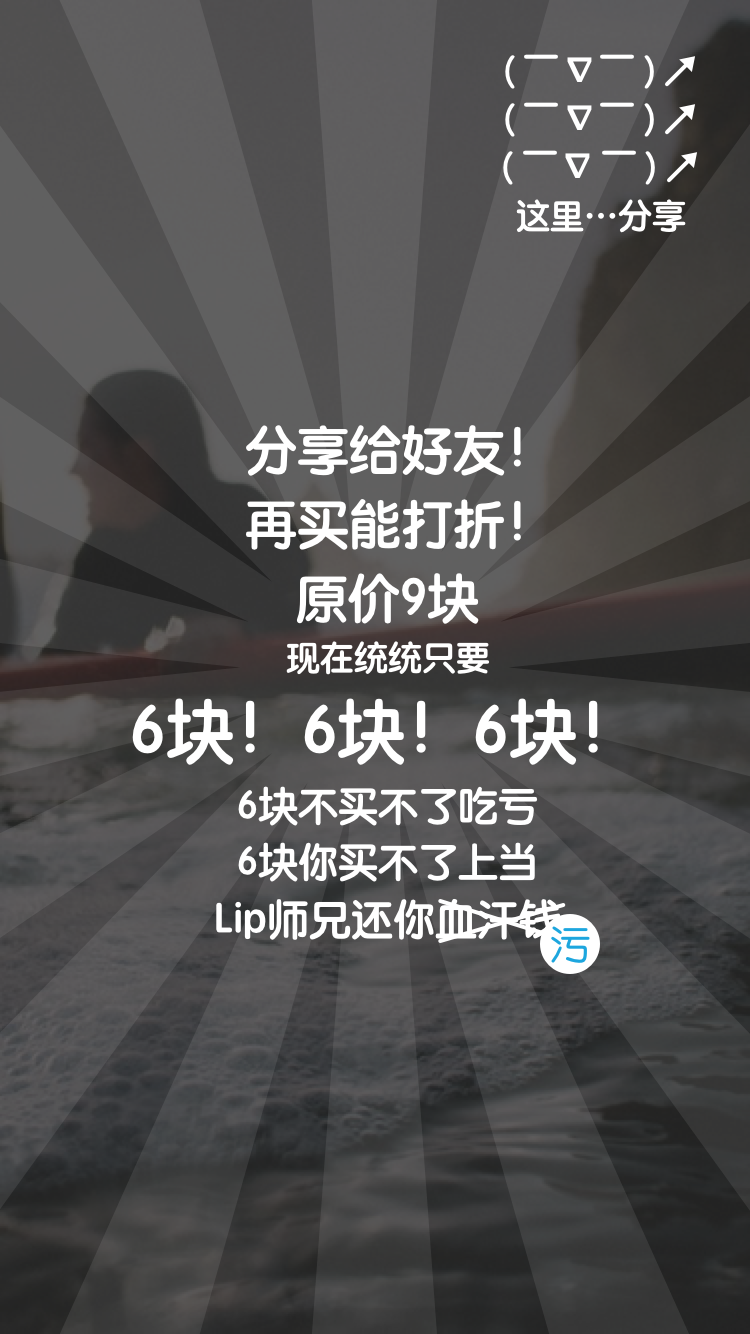
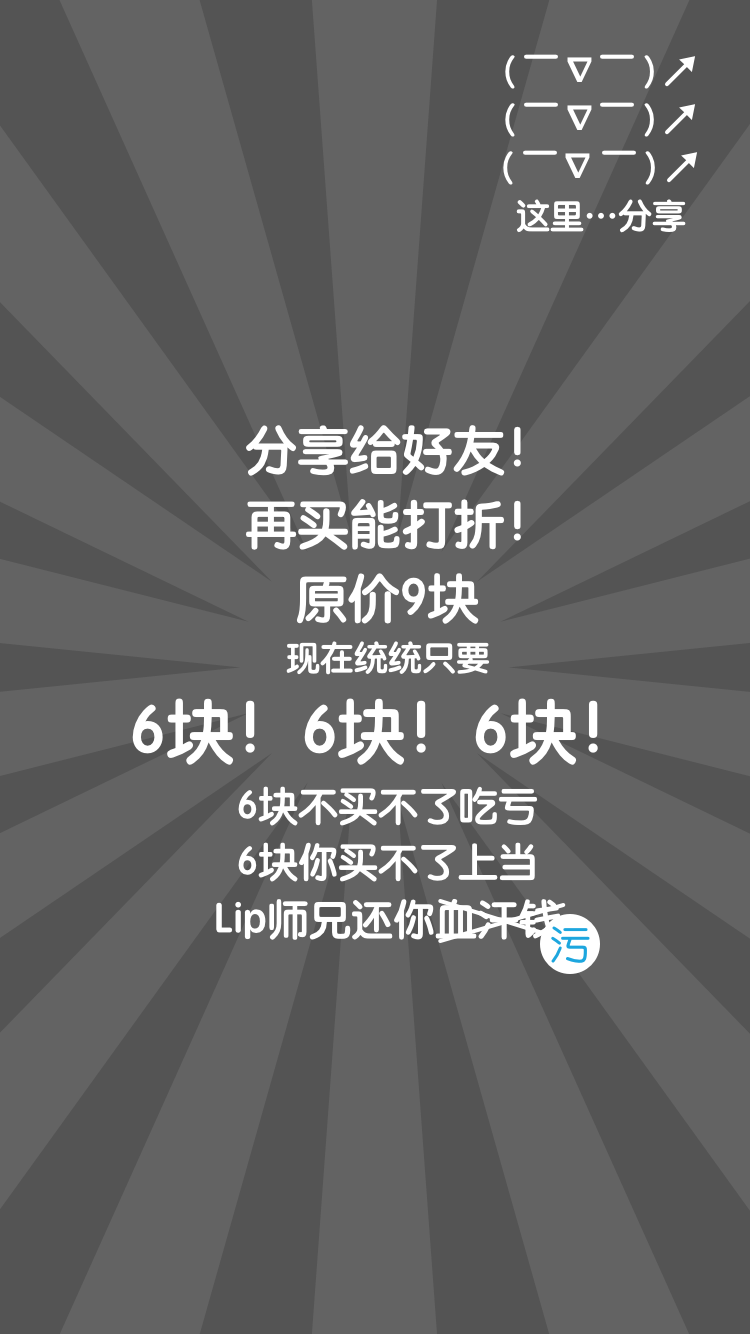
修改邀请好友UI图。

diff --git a/assets7Intro/css/payPage.scss b/assets7Intro/css/payPage.scss
@@ -78,6 +78,7 @@
   display: inline-block;
   width: 70%;
   text-align: center;
+
 }
 
 .whole-join-button{
@@ -381,8 +382,6 @@
   height: 100%;
   width: 100%;
   background: #000;
-  opacity: .65;
-
 }
 
 //大树二维码
